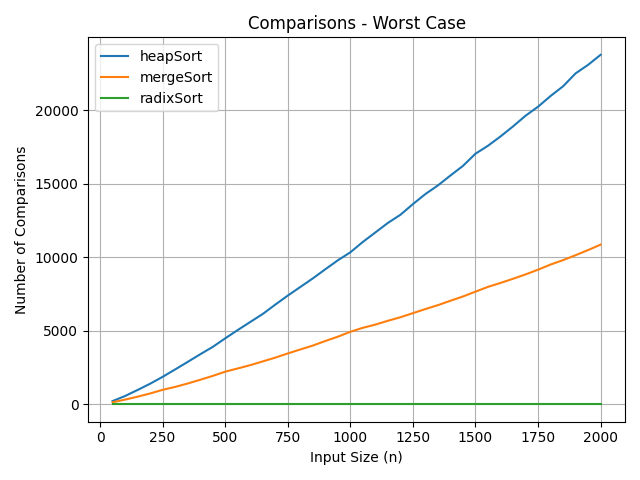
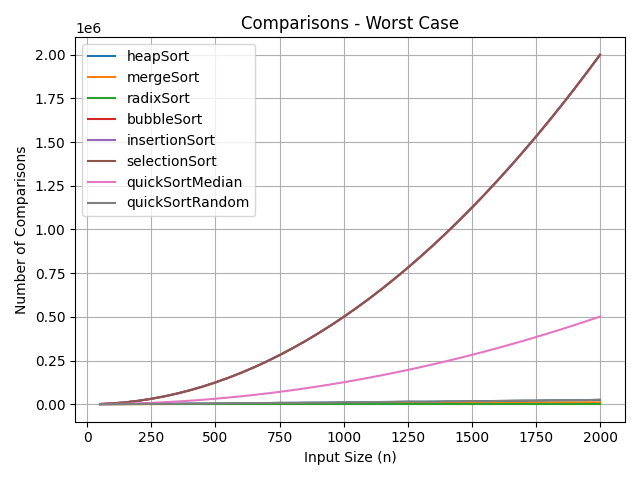
Add overall comparisons for all sorting algorithms

diff --git a/main.py b/main.py
@@ -4,19 +4,19 @@ sys.path.append('sortingAlgos')
 sys.path.append('graphs')
 import time
 
-from testCaseGenerator import read_array
-from heapSort import heapSort
-from mergeSort import mergeSort
-from radixSort import radixSort
-# from bubbleSort import bubbleSort
-# from insertionSort import insertionSort
-# from selectionSort import selectionSort
-# from quickSort import quickSort
-# from quickSortMedian import quickSortMedian
-# from quickSortRandom import quickSortRandom
+from utils.testCaseGenerator import read_array
+from sortingAlgos.heapSort import heapSort
+from sortingAlgos.mergeSort import mergeSort
+from sortingAlgos.radixSort import radixSort
+from sortingAlgos.bubbleSort import bubbleSort
+from sortingAlgos.insertionSort import insertionSort
+from sortingAlgos.selectionSort import selectionSort
+# from sortingAlgos.quickSortFirst import quickSortFirst
+from sortingAlgos.quickSortMedian import quickSortMedian
+from sortingAlgos.quickSortRandom import quickSortRandom
 
-from plotter import plot_results
-from plotter import plot_comparisons
+from utils.plotter import plot_results
+from utils.plotter import plot_comparisons
 
 
 def time_sort(sort_func, arr):
@@ -42,7 +42,7 @@ def average_random_times(times, arrays_per_size=5):     # for each size of the a
 
 if __name__ == '__main__':
     sorts = [heapSort, mergeSort, radixSort
-            #  , bubbleSort, insertionSort, selectionSort, quickSort, quickSortMedian, quickSortRandom
+             , bubbleSort, insertionSort, selectionSort, quickSortMedian, quickSortRandom
             ]
 
     ascending_arrays = read_array('testcases/ascending_dataset.txt')

diff --git a/sortingAlgos/quickSortMedian.py b/sortingAlgos/quickSortMedian.py
@@ -1,0 +1,52 @@
+def quickSortMedian(arr):
+    comparisons = [0]
+
+    def median_of_three(low, high):
+        mid = (low + high) // 2
+
+        a = arr[low]
+        b = arr[mid]
+        c = arr[high]
+
+        if (a <= b <= c) or (c <= b <= a):
+            return mid
+        elif (b <= a <= c) or (c <= a <= b):
+            return low
+        else:
+            return high
+
+    def partition(low, high):
+        pivot_index = median_of_three(low, high)
+        arr[low], arr[pivot_index] = arr[pivot_index], arr[low]
+
+        pivot = arr[low]
+        i = low + 1
+        j = high
+
+        while True:
+            while i <= j and arr[i] <= pivot:
+                comparisons[0] += 1
+                i += 1
+                if i > high:
+                    break
+
+            while i <= j and arr[j] > pivot:
+                comparisons[0] += 1
+                j -= 1
+
+            if i <= j:
+                arr[i], arr[j] = arr[j], arr[i]
+            else:
+                break
+
+        arr[low], arr[j] = arr[j], arr[low]
+        return j
+
+    def quicksort(low, high):
+        if low < high:
+            p = partition(low, high)
+            quicksort(low, p - 1)
+            quicksort(p + 1, high)
+
+    quicksort(0, len(arr) - 1)
+    return arr, comparisons[0]

diff --git a/sortingAlgos/quickSortRandom.py b/sortingAlgos/quickSortRandom.py
@@ -1,0 +1,40 @@
+import random
+
+def quickSortRandom(arr):
+    comparisons = [0]
+
+    def partition(low, high):
+        pivot_index = random.randint(low, high)
+        arr[low], arr[pivot_index] = arr[pivot_index], arr[low]
+
+        pivot = arr[low]
+        i = low + 1
+        j = high
+
+        while True:
+            while i <= j and arr[i] <= pivot:
+                comparisons[0] += 1
+                i += 1
+                if i > high:
+                    break
+
+            while i <= j and arr[j] > pivot:
+                comparisons[0] += 1
+                j -= 1
+
+            if i <= j:
+                arr[i], arr[j] = arr[j], arr[i]
+            else:
+                break
+
+        arr[low], arr[j] = arr[j], arr[low]
+        return j
+
+    def quicksort(low, high):
+        if low < high:
+            p = partition(low, high)
+            quicksort(low, p - 1)
+            quicksort(p + 1, high)
+
+    quicksort(0, len(arr) - 1)
+    return arr, comparisons[0]

diff --git a/sortingAlgos/quickSortFirst.py b/sortingAlgos/quickSortFirst.py
@@ -1,0 +1,39 @@
+def quickSortFirst(arr):
+    comparisons = [0]
+
+    def partition(low, high):
+        pivot = arr[low]
+        i = low + 1
+        j = high
+
+        while True:
+            while i <= j and arr[i] <= pivot:
+                comparisons[0] += 1
+                i += 1
+                if i > high:
+                    break
+
+            while i <= j and arr[j] > pivot:
+                comparisons[0] += 1
+                j -= 1
+
+            if i < j:
+                arr[i], arr[j] = arr[j], arr[i]
+            else:
+                break
+
+        arr[low], arr[j] = arr[j], arr[low]
+        return j
+
+    def quicksort(low, high):
+        if low >= high:
+            return
+
+        p = partition(low, high)
+
+        quicksort(low, p - 1)
+        quicksort(p + 1, high)
+
+    quicksort(0, len(arr) - 1)
+
+    return arr, comparisons[0]

diff --git a/sortingAlgos/insertionSort.py b/sortingAlgos/insertionSort.py
@@ -1,0 +1,18 @@
+def insertionSort(arr):
+    comparisons = [0]
+
+    for i in range(1, len(arr)):
+        key = arr[i]
+        j = i - 1
+
+        while j >= 0:
+            comparisons[0] += 1
+            if arr[j] > key:
+                arr[j + 1] = arr[j]
+                j -= 1
+            else:
+                break
+
+        arr[j + 1] = key
+
+    return arr, comparisons[0]

diff --git a/sortingAlgos/selectionSort.py b/sortingAlgos/selectionSort.py
@@ -1,0 +1,15 @@
+def selectionSort(arr):
+    n = len(arr)
+    comparisons = [0]
+
+    for i in range(n):
+        min_idx = i
+
+        for j in range(i + 1, n):
+            comparisons[0] += 1
+            if arr[j] < arr[min_idx]:
+                min_idx = j
+
+        arr[i], arr[min_idx] = arr[min_idx], arr[i]
+
+    return arr, comparisons[0]

diff --git a/sortingAlgos/bubbleSort.py b/sortingAlgos/bubbleSort.py
@@ -1,0 +1,11 @@
+def bubbleSort(arr):
+    n = len(arr)
+    comparisons = [0]
+
+    for i in range(n):
+        for j in range(0, n - i - 1):
+            comparisons[0] += 1
+            if arr[j] > arr[j + 1]:
+                arr[j], arr[j + 1] = arr[j + 1], arr[j]
+
+    return arr, comparisons[0]
